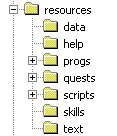
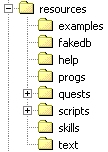
git-svn-id: svn://192.168.1.10/public/CoffeeMud@5367 0d6f1817-ed0e-0410-87c9-987e46238f29

diff --git a/guides/InstallationGuide.html b/guides/InstallationGuide.html
@@ -162,15 +162,19 @@ If you are using&nbsp;fakedb, follow the instructions below.&nbsp; If you don't
 know whether or not you are using fakedb, then you ARE using fakedb and should 
 follow these instructions:</P>
 <P><STRONG>1. </STRONG>Go into the CoffeeMud directory for your olde version and 
-copy the entire "data" directory to somewhere else on your hard drive.&nbsp; 
-Remember where you put it!</P>
-<P><STRONG>2.</STRONG> To back to the beginning of this section and follow steps 
+copy the entire fakedb data directory to somewhere else on your hard drive.&nbsp; 
+On CoffeeMud versions 1.2 - 4.7, your fakedb data directory is located in your
+coffeemud folder in the "data" directory.  In versions 5.0 and higher, it is 
+located in your coffeemud folder in the "resources/fakedb" directory.  You should
+see a file called fakedb.schema, along with numerous fakedb.data.* files.  Copy them all, 
+and remember where you put them! </P>
+<P><STRONG>2.</STRONG> Go back to the beginning of this section and follow steps 
 1 through 5 from the <EM>unchanged database schema</EM> process.</P>
 <P><STRONG>3.&nbsp;</STRONG>From the command line, go into your CoffeeMud 
-directory, and from there into the data directory.&nbsp; Delete all the files 
+directory, and from there into fakedb data directory.&nbsp; Delete all the files 
 matching fakedb.data.*&nbsp; Do NOT delete the&nbsp;fakedb.schema! If everything 
 went well, the new fakedb.schema from the new version of CoffeeMud is still in 
-your data directory.&nbsp;</P>
+your fakedb data directory.&nbsp;</P>
 <P><STRONG>4.</STRONG> Still from the command line, go into your CoffeeMud 
 directory and enter the following:</P>
 <P><STRONG>java com.planet_ink.fakedb.DBUpgrade</STRONG></P>
@@ -180,12 +184,16 @@ directory and enter the following:</P>
 <P>Now, if you are upgrading to a version with an updated database schema and 
 you are NOT using fakedb, but are using Access, SQL Server, MySQL, or some other 
 database, follow these instructions:</P>
-<P><STRONG>1.</STRONG> Go into the CoffeeMud directory for your olde version and 
-copy the entire "data" directory to somewhere else on your hard drive.&nbsp; 
-Remember where you put it!&nbsp; Even though you aren't using FakeBD, you will 
+<P><STRONG>1.</STRONG>Go into the CoffeeMud directory for your olde version and 
+copy the entire fakedb data directory to somewhere else on your hard drive.&nbsp; 
+On CoffeeMud versions 1.2 - 4.7, your fakedb data directory is located in your
+coffeemud folder in the "data" directory.  In versions 5.0 and higher, it is 
+located in your coffeemud folder in the "resources/fakedb" directory.  You should
+see a file called fakedb.schema, along with numerous fakedb.data.* files.  Copy them all, 
+and remember where you put them! &nbsp; Even though you aren't using FakeBD, you will 
 still need to copy FakeDB's&nbsp;schema for use with the upgrade 
 application.</P>
-<P><STRONG>2.</STRONG> To back to the beginning of this section and follow steps 
+<P><STRONG>2.</STRONG>Go back to the beginning of this section and follow steps 
 1 through 5 from the <EM>unchanged database schema</EM> 
 process.</P>
 <P><STRONG>3. </STRONG>Following the instructions provided by your database 
@@ -343,10 +351,6 @@ your server.</P>
 <P>The directories inside the <STRONG>com</STRONG>     directory contain all the Java Class files, 
 which are the executable portion of CoffeeMud.  All of the Java source 
 files are also found herein.</P>
-<IMG src="images/dir-data.jpg">
-<P>The <STRONG>data</STRONG>  directory is where all area, room, mob, journal, and player data is
-stored when the FAKEDB system is being used.  When FAKEDB is not being used,
-this directory is unused.</P>
 <IMG src="images/dir-guides.jpg">
 <P>The <STRONG>guides</STRONG>  directory is where you'll find this document, as well as other HTML
 documents you may find helpful in configuring your server as well as building
@@ -401,12 +405,17 @@ files found in the resources directory are:</P>
 <TR><TD VALIGN=top><I>socials.txt</I></TD><TD VALIGN=top> The text file holding all of the socials.</TD></TR>
 <TR><TD VALIGN=top><I>mxp_images.txt</I></TD><TD VALIGN=top>A definition table for the default image files used for mxp clients.</TD></TR>
 </TABLE>
-<P>The <STRONG>resources/data</STRONG> 
-directory is where you'll find sample files for a variety of things. At 
-the moment, it contains a cmare file with some example deities to load into 
+<P>The <STRONG>resources/fakedb</STRONG>  directory is where all area, room, mob, journal, and player data is
+stored when the FAKEDB system is being used.  When FAKEDB is not being used,
+this directory is unused.</P>
+<P>The <STRONG>resources/examples</STRONG> 
+directory is where you'll find sample files for a variety of things. It 
+contains a cmare file with some example deities to load into 
 your mud. Use the import command to load this set of mobs.&nbsp; It also contains a sample faction ini
 file called "reputation.ini", which  you may put into the proper tag in your coffeemud.ini file to
-make use of, as well as  a template file for use when new factions are created.</P>
+make use of, as well as  a template file for use when new factions are created.  It also 
+contains a sample MOB class written in javascript.  Use LOAD MOB resources/examples/Lemming.js to 
+load it up.</P>
 <P>The <STRONG>resources/help</STRONG> directory is where you'll find all of the files
 responsible for the numerous standard and archon HELP entries.  It also contains the
 two text files shown when help and ahelp are entered without parameters.  The *.ini files
@@ -467,7 +476,7 @@ Without the database, you would have to start all over from scratch every time
 you booted the MUD Server.&nbsp; And we all know that would be bad.</P>
 <P align=left>By default, CoffeeMud uses a custom JDBC flat-file database called 
 "fakedb".&nbsp; FakeDB stores its data into text formatted files inside the 
-"data" directory of your CoffeeMud package.&nbsp; FakeDB is rather slow, and 
+"resources/fakedb" directory of your CoffeeMud package.&nbsp; FakeDB is rather slow, and 
 hardly a powerful or professional database system, but it is quite sufficient 
 for CoffeeMud, and performs well the small tasks it was designed for.&nbsp; </P>
 <P align=left>For the more adventurous, CoffeeMud supports 
@@ -480,7 +489,7 @@ directory of your CoffeeMud package, you will find&nbsp;several
 files: "coffeemuddb.sql", "coffeemuddb2.sql", "coffeemuddbaccess.sql", "coffeemuddbmysql.sql", "coffeemuddbpsql.sql",  "coffeemuddbh.sql", "coffeemuddderby.sql", and "fakedb.schema".&nbsp; The 
 first&nbsp;five are SQL Scripts which can be used to create the necessary tables 
 in Microsoft SQL Server ("coffeemuddb2.sql"), MySQL ("coffeemuddbmysql.sql"),&nbsp;Access ("coffeemuddbaccess.sql"), PostGRE ("coffeemuddbpsql.sql"), Derby ("coffeemuddbderby.sql"), HSQLDB ("coffeemuddbh.sql"), and some of 
-the others.&nbsp; The last is a copy of the same fakedb file from your "data" 
+the others.&nbsp; The last is a copy of the same fakedb file from your "resources/fakedb" 
 directory, in case it becomes corrupted.&nbsp; Although the manner in which the 
 SQL Scripts are used may differ from system to system, they cannot all be 
 covered here.&nbsp; Some of the scripts may need to be changed slightly to work 
@@ -615,7 +624,7 @@ running and a coffeemud database&nbsp;all set for it to access.<BR><BR><STRONG>7
 </STRONG>  
 Now go to your coffeemud folder and open your coffeemud.ini file in notepad or 
 some text editor, and look for the section that says:<BR><FONT 
-face="Courier New">DBCLASS=com.planet_ink.fakedb.Driver<BR>DBSERVICE=jdbc:fakedb:data<BR>DBUSER=<BR>DBPASS=<BR>DBCONNECTIONS=2<BR></FONT><BR>and 
+face="Courier New">DBCLASS=com.planet_ink.fakedb.Driver<BR>DBSERVICE=jdbc:fakedb:resources/data<BR>DBUSER=<BR>DBPASS=<BR>DBCONNECTIONS=2<BR></FONT><BR>and 
 change it to:<BR><BR><FONT 
 face="Courier New">DBCLASS=com.mysql.jdbc.Driver<BR>DBSERVICE=jdbc:mysql://localhost/coffeemud<BR>DBUSER=<BR>DBPASS=<BR>DBCONNECTIONS=4<BR></FONT><BR><STRONG>8. </STRONG> 
  Go back to the other file you downloaded in STEP 2, 
